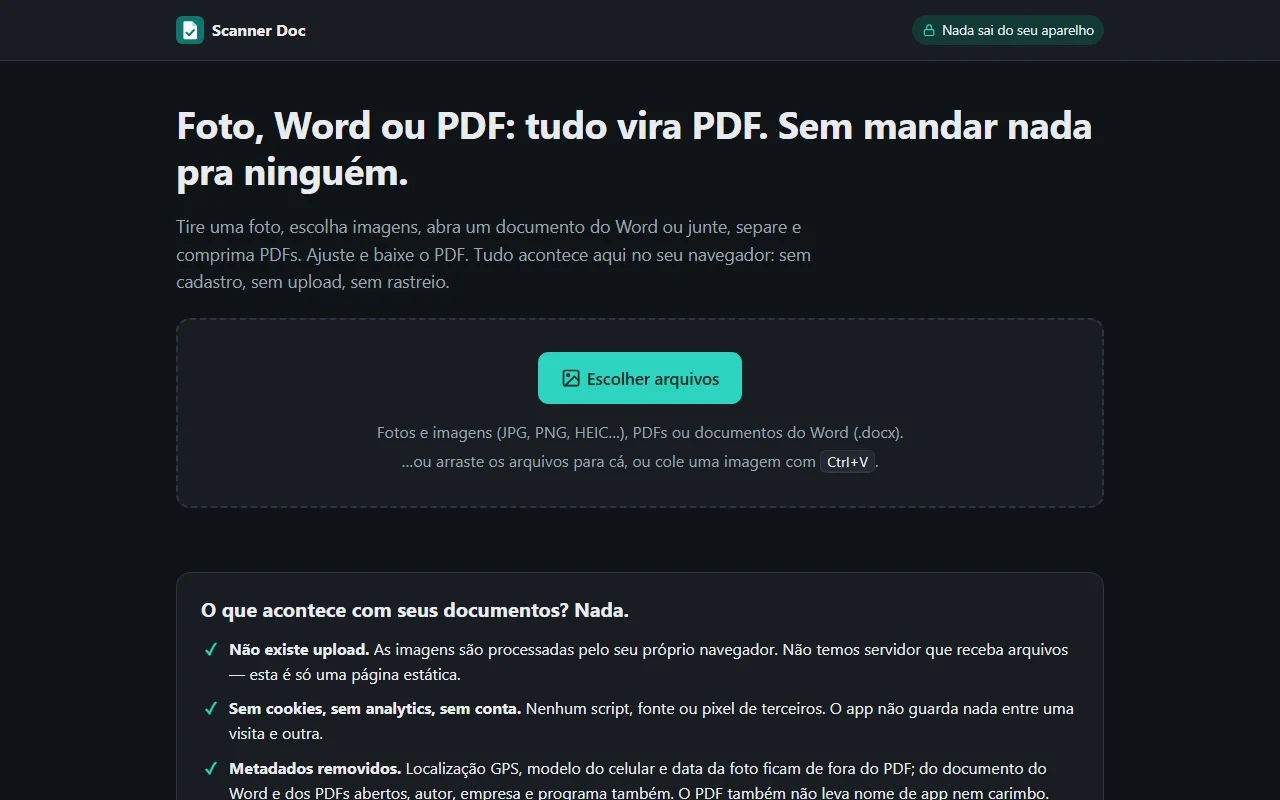
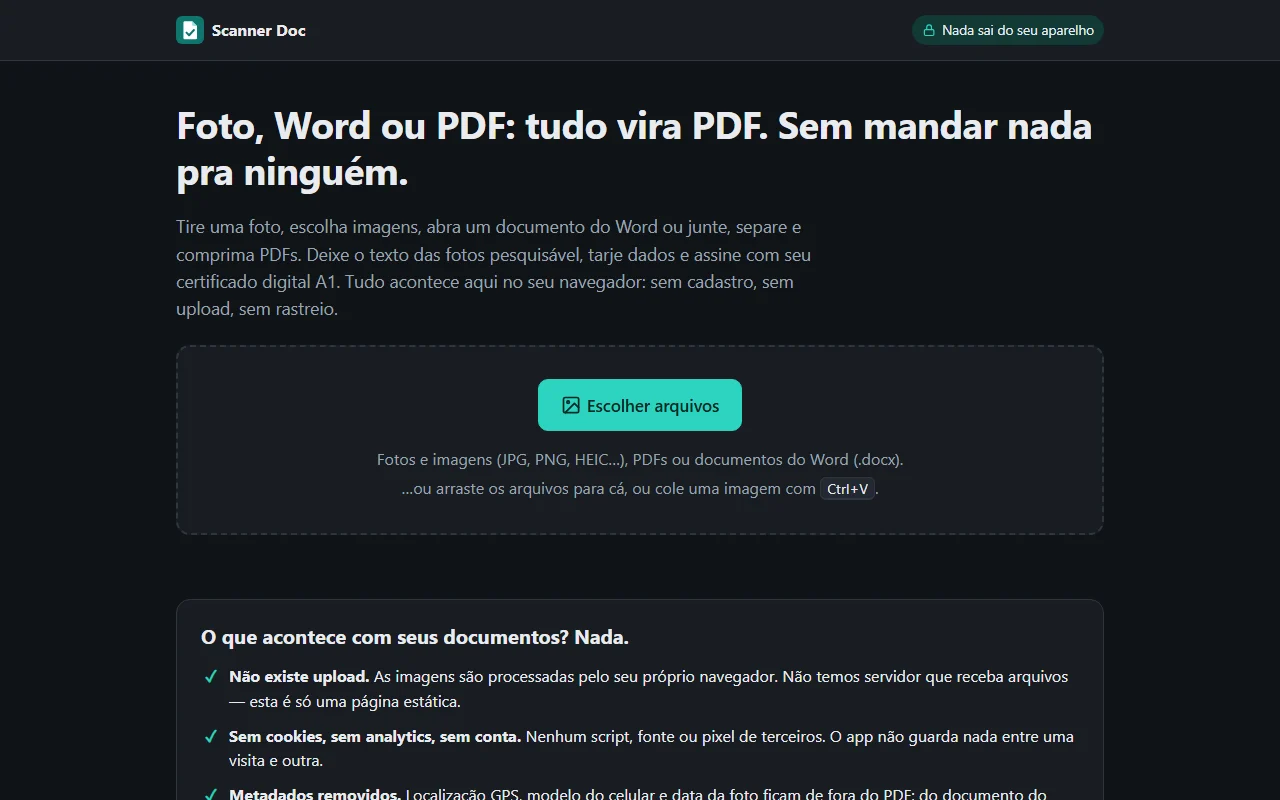
feat: Tropeiro 1.12.1 com o Peças usadas e Scanner Doc 3.7.0 com OCR, tarja e assinatura (v1.7.0)
- Tropeiro: selo na v1.12.1, implantada em 2026-10-20, e o módulo
  Peças usadas no texto e em duas linhas da lista.
- Scanner Doc: versão no carimbo, lista com o recorte, os PDFs com
  senha, o OCR, a tarja, a assinatura A1 e o PDF/A, e o print refeito
  na v3.7.0. O recorte da imagem acompanha a área de envio, que desceu.
- Rodapé das duas páginas na v1.7.0.

Changed region(s): [[0.1562, 0.75, 0.8438, 1.0], [0.3125, 0.4375, 0.7188, 0.625], [0.125, 0.3125, 0.625, 0.4062]]

diff --git a/en/index.html b/en/index.html
@@ -79,9 +79,9 @@
               <div class="item-text">
                 <div class="item-head">
                   <h3 id="title-tropeiro">Tropeiro</h3>
-                  <p class="stamp">In production · <span class="ver">v1.4.2</span></p>
+                  <p class="stamp">In production · <span class="ver">v1.12.1</span></p>
                 </div>
-                <p>A platform for running small and medium businesses: each one uses the modules it needs, from last-mile delivery to work orders and point of sale, sharing a single record of customers and products. The same phone app serves the driver, the technician and the salesperson. It started with deliveries in Mato Grosso, Brazil, and in October 2026 it replaced the pilot, Logística Local &amp; Rotas.</p>
+                <p>A platform for running small and medium businesses: each one uses the modules it needs, from last-mile delivery to work orders, point of sale and used auto parts, sharing a single record of customers and products. The same phone app serves the driver, the technician and the salesperson. It started with deliveries in Mato Grosso, Brazil, and in October 2026 it replaced the pilot, Logística Local &amp; Rotas.</p>
                 <p class="links"><a class="go" href="https://github.com/sanklerbergman/logistica-local-rotas-case/blob/main/README.en.md">Read the pilot's case study</a></p>
                 <p class="note">Private code. Screenshots use fictitious data in Cuiabá, Brazil. The interface is in Portuguese.</p>
               </div>
@@ -91,6 +91,8 @@
                 <li>Work orders from quote to payment, with the technician in the app: photos, parts and the customer's signature, even offline.</li>
                 <li>Preventive maintenance that opens work orders on its own, on each plan's schedule.</li>
                 <li>Point of sale at the counter, with a barcode scanner, and on the phone, even offline: cash register, store credit, exchanges and returns.</li>
+                <li>Used auto parts for salvage yards: each part linked to its donor car by the VIN, with photos, video and a barcode label.</li>
+                <li>A page for each part, shared over WhatsApp with the photo and price right in the chat, and point-of-sale sales with a warranty and checked returns.</li>
                 <li>Pix following the Central Bank standard, and a wallet for self-employed (MEI) drivers.</li>
               </ul>
             </div>
@@ -110,15 +112,26 @@
           <article class="item" id="scanner" aria-labelledby="title-scanner">
             <p class="item-n" aria-hidden="true">02</p>
             <div class="item-body">
-              <div class="item-head">
-                <h3 id="title-scanner">Scanner Doc</h3>
-                <p class="stamp">Live · open source</p>
+              <div class="item-text">
+                <div class="item-head">
+                  <h3 id="title-scanner">Scanner Doc</h3>
+                  <p class="stamp">Live · <span class="ver">v3.7.0</span> · open source</p>
+                </div>
+                <p>Photos, Word files or PDFs become a PDF right in the browser. Nothing leaves the device: no upload, no sign-up, no tracking, and it works offline.</p>
+                <p class="links">
+                  <a class="go" href="https://scanner.sankler.com.br/">Open the app</a>
+                  <a class="go" href="https://github.com/sanklerbergman/doc-scanner-pdf-engine">View the code</a>
+                </p>
+                <p class="note">The interface is in Portuguese.</p>
               </div>
-              <p>Photos, Word files or PDFs become a PDF right in the browser: automatic paper cropping, merging, splitting and compressing. No upload, no sign-up, no tracking, and it works offline.</p>
-              <p class="links">
-                <a class="go" href="https://scanner.sankler.com.br/">Open the app</a>
-                <a class="go" href="https://github.com/sanklerbergman/doc-scanner-pdf-engine">View the code</a>
-              </p>
+              <ul class="lines">
+                <li>Automatic paper cropping with adjustable corners, and a filter that removes shadows and strengthens faint text.</li>
+                <li>Merging, splitting and compressing PDFs, including password-protected ones, and password protection for the new PDF.</li>
+                <li>Searchable text (OCR) in photos and scanned PDFs, recognized on the device itself.</li>
+                <li>Real redaction: what lies underneath is removed from the PDF, not just covered, and the app finds tax IDs (CPF, CNPJ), phone numbers and emails to redact.</li>
+                <li>Signing with a Brazilian A1 digital certificate (e-CPF or e-CNPJ), in the PAdES standard that Acrobat recognizes.</li>
+                <li>PDF/A, the archival format some Brazilian courts require for electronic filings.</li>
+              </ul>
             </div>
             <figure class="item-media crop-top">
               <img src="../assets/img/scanner-escuro.webp" width="1280" height="800" loading="lazy" alt="Scanner Doc home screen: a button to choose photos, PDFs or Word files, and the promise that nothing leaves the device">
@@ -179,7 +192,7 @@
 
     <footer class="row foot">
       <div class="row-label"><p>© 2026 Sankler Bergman</p></div>
-      <div class="foot-text"><p>No cookies. Visits counted by Cloudflare Web Analytics.</p><p class="version">v1.6.0</p></div>
+      <div class="foot-text"><p>No cookies. Visits counted by Cloudflare Web Analytics.</p><p class="version">v1.7.0</p></div>
     </footer>
   </div>
   <!-- Cloudflare Web Analytics --><script type='module' src='https://static.cloudflareinsights.com/beacon.min.js' data-cf-beacon='{"token": "7807c7852e47422086e274342e7d65ed"}'></script><!-- End Cloudflare Web Analytics -->

diff --git a/index.html b/index.html
@@ -79,9 +79,9 @@
               <div class="item-text">
                 <div class="item-head">
                   <h3 id="titulo-tropeiro">Tropeiro</h3>
-                  <p class="stamp">Em produção · <span class="ver">v1.4.2</span></p>
+                  <p class="stamp">Em produção · <span class="ver">v1.12.1</span></p>
                 </div>
-                <p>Plataforma para a operação de pequenas e médias empresas: cada uma usa os módulos de que precisa, entre entregas de última milha, ordens de serviço e PDV, com um cadastro só de clientes e de produtos. O mesmo app de celular serve o motorista, o técnico e o vendedor. Começou pelas entregas em Mato Grosso e, em outubro de 2026, substituiu o piloto, o Logística Local &amp; Rotas.</p>
+                <p>Plataforma para a operação de pequenas e médias empresas: cada uma usa os módulos de que precisa, entre entregas de última milha, ordens de serviço, PDV e peças usadas, com um cadastro só de clientes e de produtos. O mesmo app de celular serve o motorista, o técnico e o vendedor. Começou pelas entregas em Mato Grosso e, em outubro de 2026, substituiu o piloto, o Logística Local &amp; Rotas.</p>
                 <p class="links"><a class="go" href="https://github.com/sanklerbergman/logistica-local-rotas-case">Ler o estudo de caso do piloto</a></p>
                 <p class="note">Código privado. As imagens usam dados fictícios em Cuiabá.</p>
               </div>
@@ -91,6 +91,8 @@
                 <li>Ordem de serviço do orçamento ao recebimento, com o técnico no app: fotos, peças e assinatura do cliente, mesmo sem internet.</li>
                 <li>Manutenção preventiva que abre as ordens sozinha, no prazo de cada plano.</li>
                 <li>PDV no balcão, com leitor de código de barras, e no celular, sem internet: caixa, fiado, troca e devolução.</li>
+                <li>Peças usadas para desmanches: cada peça ligada ao carro de origem pelo chassi, com fotos, vídeo e etiqueta com código de barras.</li>
+                <li>Ficha da peça com link para o WhatsApp, que já mostra a foto e o preço na conversa, e venda no PDV com garantia e devolução conferida.</li>
                 <li>Pix no padrão do Banco Central e carteira do motorista MEI.</li>
               </ul>
             </div>
@@ -110,15 +112,25 @@
           <article class="item" id="scanner" aria-labelledby="titulo-scanner">
             <p class="item-n" aria-hidden="true">02</p>
             <div class="item-body">
-              <div class="item-head">
-                <h3 id="titulo-scanner">Scanner Doc</h3>
-                <p class="stamp">No ar · código aberto</p>
+              <div class="item-text">
+                <div class="item-head">
+                  <h3 id="titulo-scanner">Scanner Doc</h3>
+                  <p class="stamp">No ar · <span class="ver">v3.7.0</span> · código aberto</p>
+                </div>
+                <p>Foto, Word ou PDF viram PDF no próprio navegador. Nada sai do aparelho: sem upload, sem cadastro e sem rastreio, e funciona offline.</p>
+                <p class="links">
+                  <a class="go" href="https://scanner.sankler.com.br/">Abrir o app</a>
+                  <a class="go" href="https://github.com/sanklerbergman/doc-scanner-pdf-engine">Ver o código</a>
+                </p>
               </div>
-              <p>Foto, Word ou PDF viram PDF no próprio navegador: recorte automático do papel, juntar, separar e comprimir. Sem upload, sem cadastro e sem rastreio, e funciona offline.</p>
-              <p class="links">
-                <a class="go" href="https://scanner.sankler.com.br/">Abrir o app</a>
-                <a class="go" href="https://github.com/sanklerbergman/doc-scanner-pdf-engine">Ver o código</a>
-              </p>
+              <ul class="lines">
+                <li>Recorte automático do papel, com os cantos ajustáveis, e filtro que tira a sombra e reforça o texto.</li>
+                <li>Juntar, separar e comprimir PDFs, inclusive os protegidos por senha, e proteger o PDF novo com senha.</li>
+                <li>Texto pesquisável (OCR) nas fotos e nos PDFs escaneados, reconhecido no próprio aparelho.</li>
+                <li>Tarja de verdade: o que está embaixo é apagado do PDF, não só coberto, e o app acha CPF, CNPJ, telefone e e-mail para tarjar.</li>
+                <li>Assinatura com certificado digital A1 (e-CPF ou e-CNPJ), no padrão PAdES, que o Acrobat reconhece.</li>
+                <li>PDF/A, o formato de arquivamento que alguns tribunais pedem no processo eletrônico.</li>
+              </ul>
             </div>
             <figure class="item-media crop-top">
               <img src="assets/img/scanner-escuro.webp" width="1280" height="800" loading="lazy" alt="Tela inicial do Scanner Doc: botão para escolher fotos, PDFs ou documentos do Word e a garantia de que nada sai do aparelho">
@@ -179,7 +191,7 @@
 
     <footer class="row foot">
       <div class="row-label"><p>© 2026 Sankler Bergman</p></div>
-      <div class="foot-text"><p>Sem cookies. Visitas contadas pelo Cloudflare Web Analytics.</p><p class="version">v1.6.0</p></div>
+      <div class="foot-text"><p>Sem cookies. Visitas contadas pelo Cloudflare Web Analytics.</p><p class="version">v1.7.0</p></div>
     </footer>
   </div>
   <!-- Cloudflare Web Analytics --><script type='module' src='https://static.cloudflareinsights.com/beacon.min.js' data-cf-beacon='{"token": "7807c7852e47422086e274342e7d65ed"}'></script><!-- End Cloudflare Web Analytics -->

diff --git a/assets/style.css b/assets/style.css
@@ -263,7 +263,7 @@ section { scroll-margin-top: 12px; }
 .item-media { grid-column: 2; grid-row: 1; border-bottom: 1px solid var(--spot-rule); }
 .item-media img { width: 100%; }
 /* A captura do Scanner Doc termina logo abaixo da área de envio, sem texto cortado. */
-.item-media.crop-top img { aspect-ratio: 1280 / 540; object-fit: cover; object-position: top; }
+.item-media.crop-top img { aspect-ratio: 1280 / 568; object-fit: cover; object-position: top; }
 
 /* A segunda imagem do item fecha o item, depois do texto que ela mostra. */
 .item-media-end { grid-column: 2; grid-row: 3; border-top: 1px solid var(--spot-rule); }
